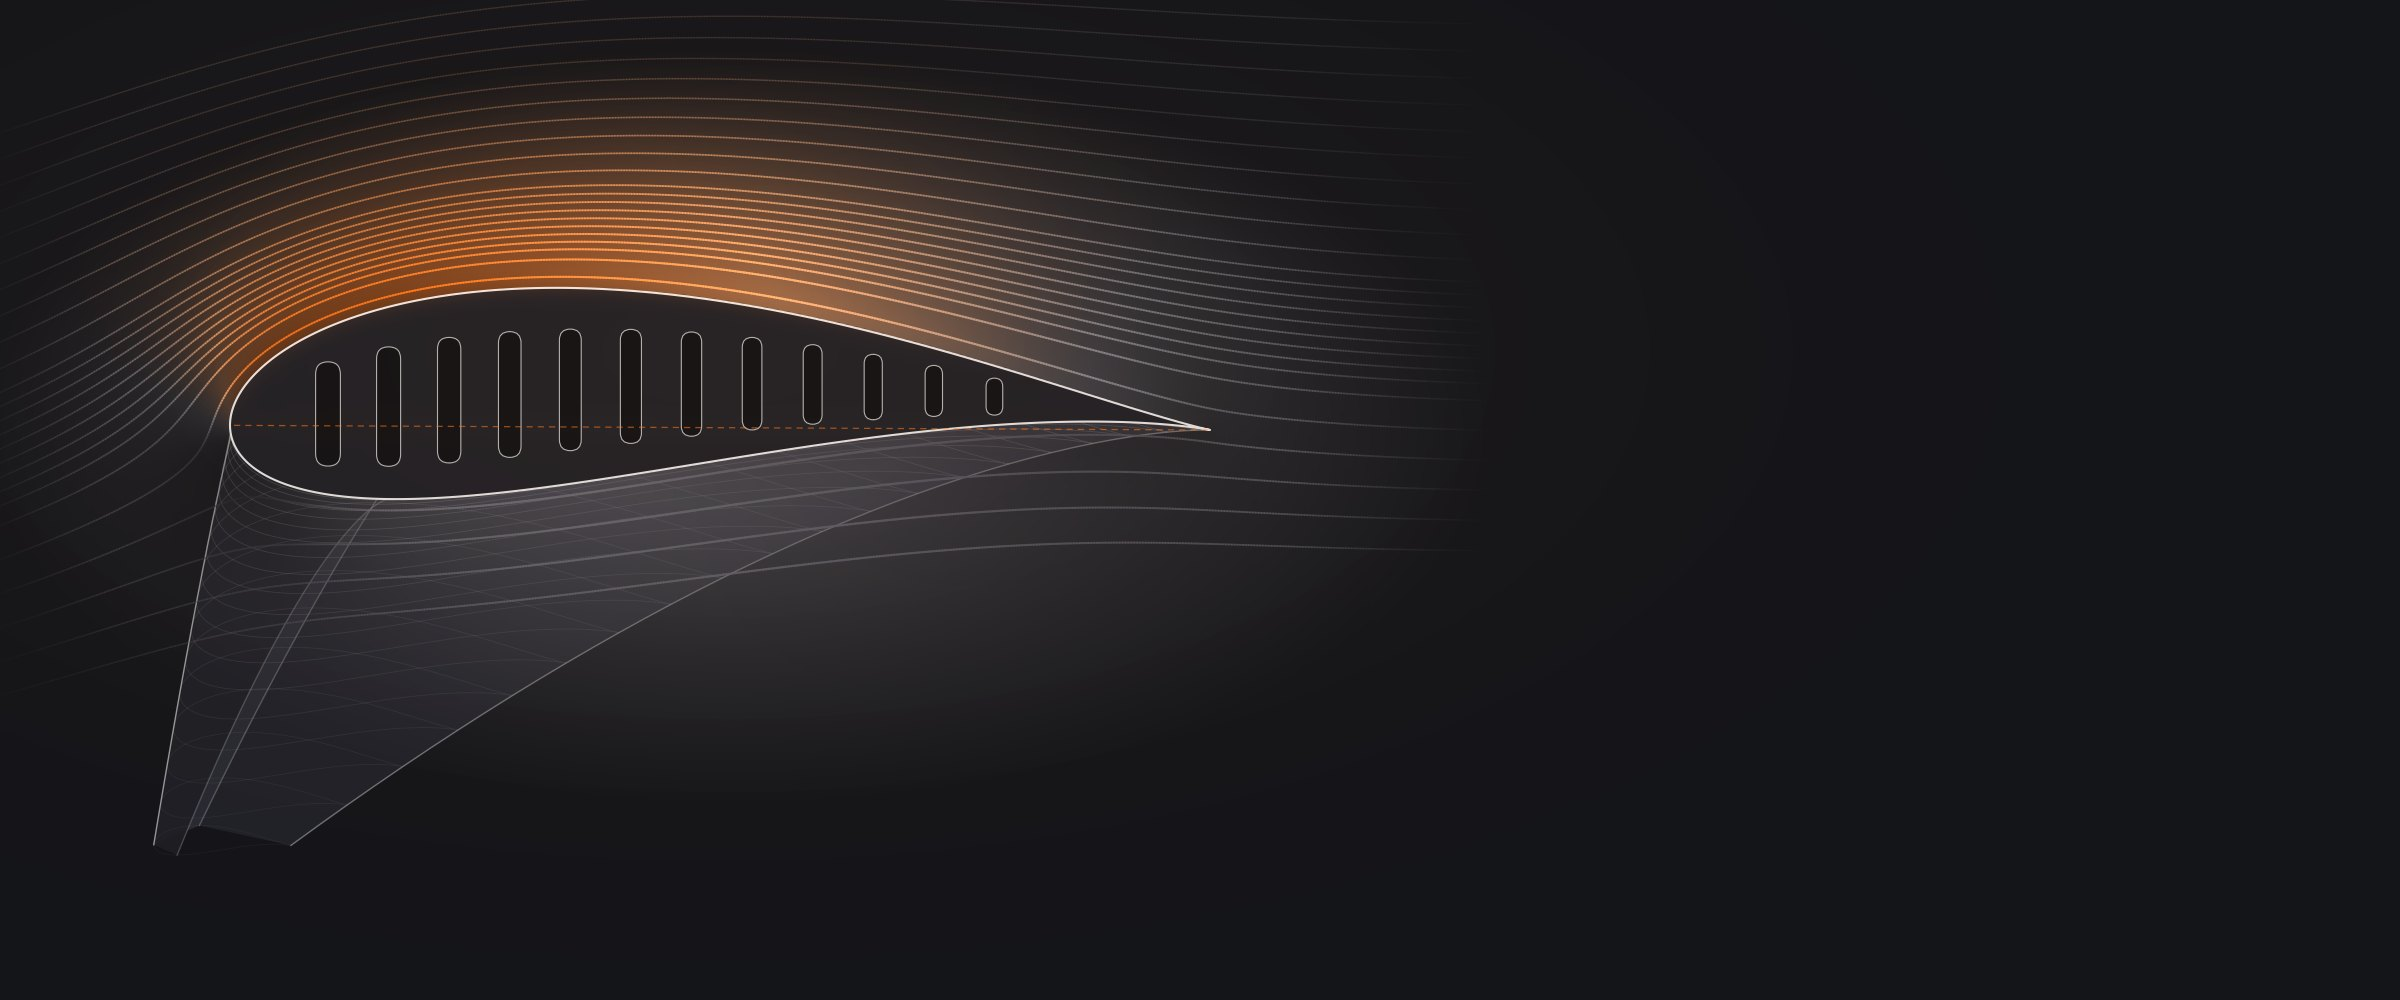
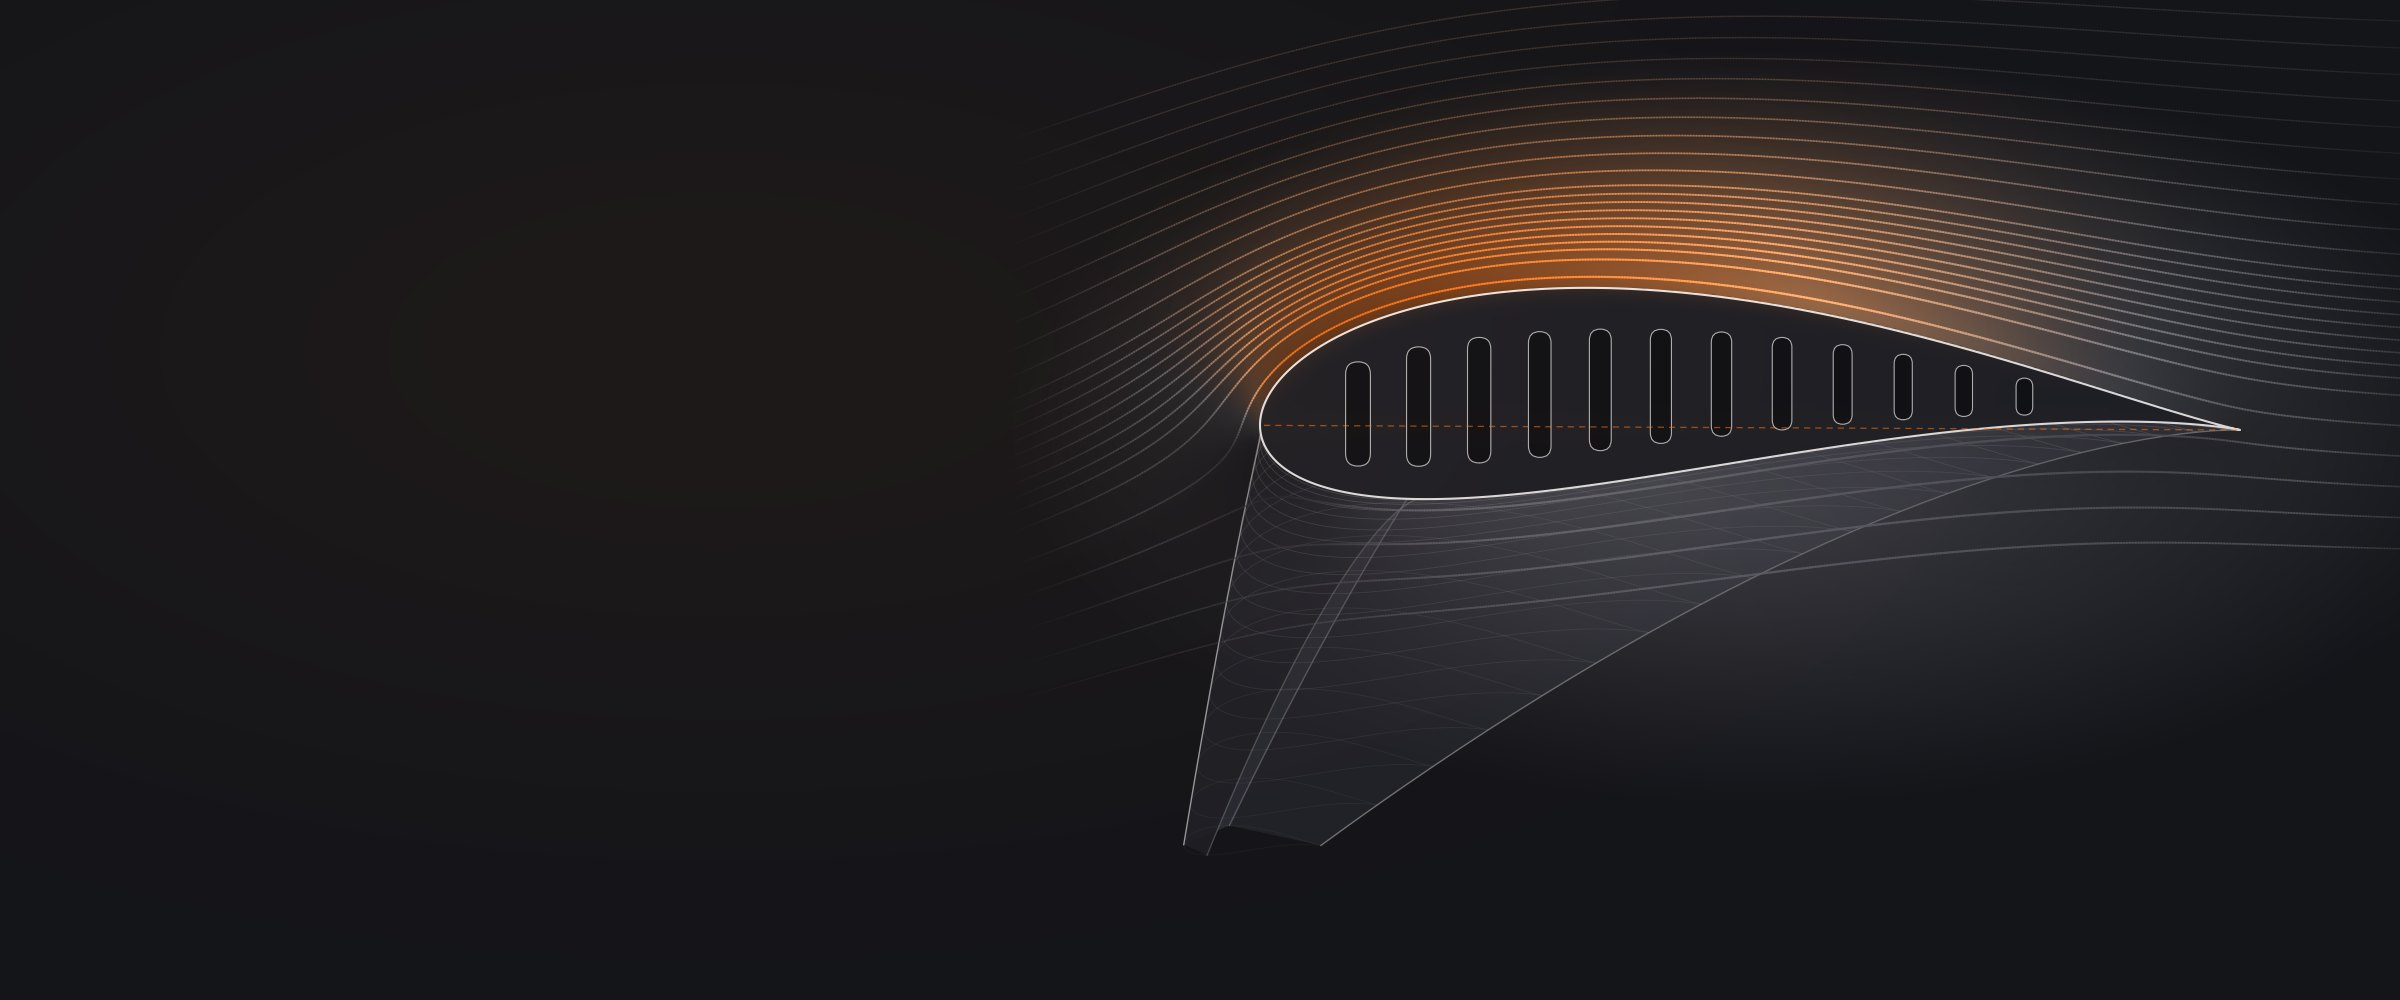
KB A2: section band flipped, quote left, wing cutaway right

diff --git a/prototypes/flight-mechanics-a2.html b/prototypes/flight-mechanics-a2.html
@@ -166,15 +166,15 @@
 
   .band-fig{position:relative;margin:0;background:var(--bg);border-top:1px solid var(--rule);overflow:hidden;}
   .bf-media{position:relative;aspect-ratio:12/5;max-height:640px;width:100%;}
-  .bf-media img{position:absolute;inset:0;width:100%;height:100%;object-fit:cover;object-position:left center;}
-  .bf-q{position:absolute;right:clamp(1.5rem,5vw,4rem);top:50%;transform:translateY(-50%);width:min(34%,440px);}
+  .bf-media img{position:absolute;inset:0;width:100%;height:100%;object-fit:cover;object-position:right center;}
+  .bf-q{position:absolute;left:clamp(1.5rem,5vw,4rem);top:50%;transform:translateY(-50%);width:min(34%,440px);}
   .bf-q .kicker{display:block;color:var(--orange);font-size:.72rem;letter-spacing:.14em;text-transform:uppercase;font-weight:600;margin-bottom:1rem;}
   .bf-q .qt{font-family:var(--font-display);font-weight:600;font-size:clamp(1.15rem,1.9vw,1.6rem);line-height:1.32;color:var(--white);margin:0 0 1rem;}
   .bf-q .qt::before{content:"\201C";color:var(--orange);margin-right:.08em;} .bf-q .qt::after{content:"\201D";color:var(--orange);margin-left:.04em;}
   .bf-q .who{color:var(--gray-light);font-size:.85rem;margin:0 0 1.2rem;} .bf-q .who a{color:var(--orange);text-decoration:none;display:block;margin-top:.2rem;font-size:.78rem;}
   .bf-q .who a:hover{text-decoration:underline;}
   .bf-q .cap{color:var(--gray);font-size:.74rem;line-height:1.55;border-top:1px solid var(--line);padding-top:.8rem;margin:0;}
-  @media(max-width:900px){.bf-media{aspect-ratio:auto;height:62vw;} .bf-media img{object-fit:cover;object-position:18% center;} .bf-q{position:static;transform:none;width:auto;padding:1.4rem clamp(1.5rem,5vw,4rem) 2.4rem;}}
+  @media(max-width:900px){.bf-media{aspect-ratio:auto;height:62vw;} .bf-media img{object-fit:cover;object-position:80% center;} .bf-q{position:static;transform:none;width:auto;padding:1.4rem clamp(1.5rem,5vw,4rem) 2.4rem;}}
 .k-hero{min-height:clamp(470px,37.5vw,680px);align-items:center;}
  .k-hero-media{background:var(--bg);} .k-hero-media img{object-fit:contain;object-position:right center;}
  .k-hero-copy{padding-top:2rem;padding-bottom:2rem;max-width:640px;} .k-hero-copy p.lead,.k-hero-copy .sub{max-width:470px;}

diff --git a/tools/make_kb_section.py b/tools/make_kb_section.py
@@ -30,7 +30,7 @@ def vel(z):
 
 # section frame -> pixels (flight to the left: flip x so leading edge is on the left)
 xmin, xmax = zf.real.min(), zf.real.max(); CH = xmax - xmin
-SC = 980/CH; X0, Y0 = 230, 430
+SC = 980/CH; X0, Y0 = 1260, 430
 def P(x, y): return np.c_[X0 + (xmax - np.asarray(x) - 0)*SC*0 + (np.asarray(x) - xmin)*SC, Y0 - np.asarray(y)*SC]
 # x as-is puts LE (Joukowski LE is at x=-2) on the left; flow comes from the left
 sec = P(zf.real, zf.imag)
